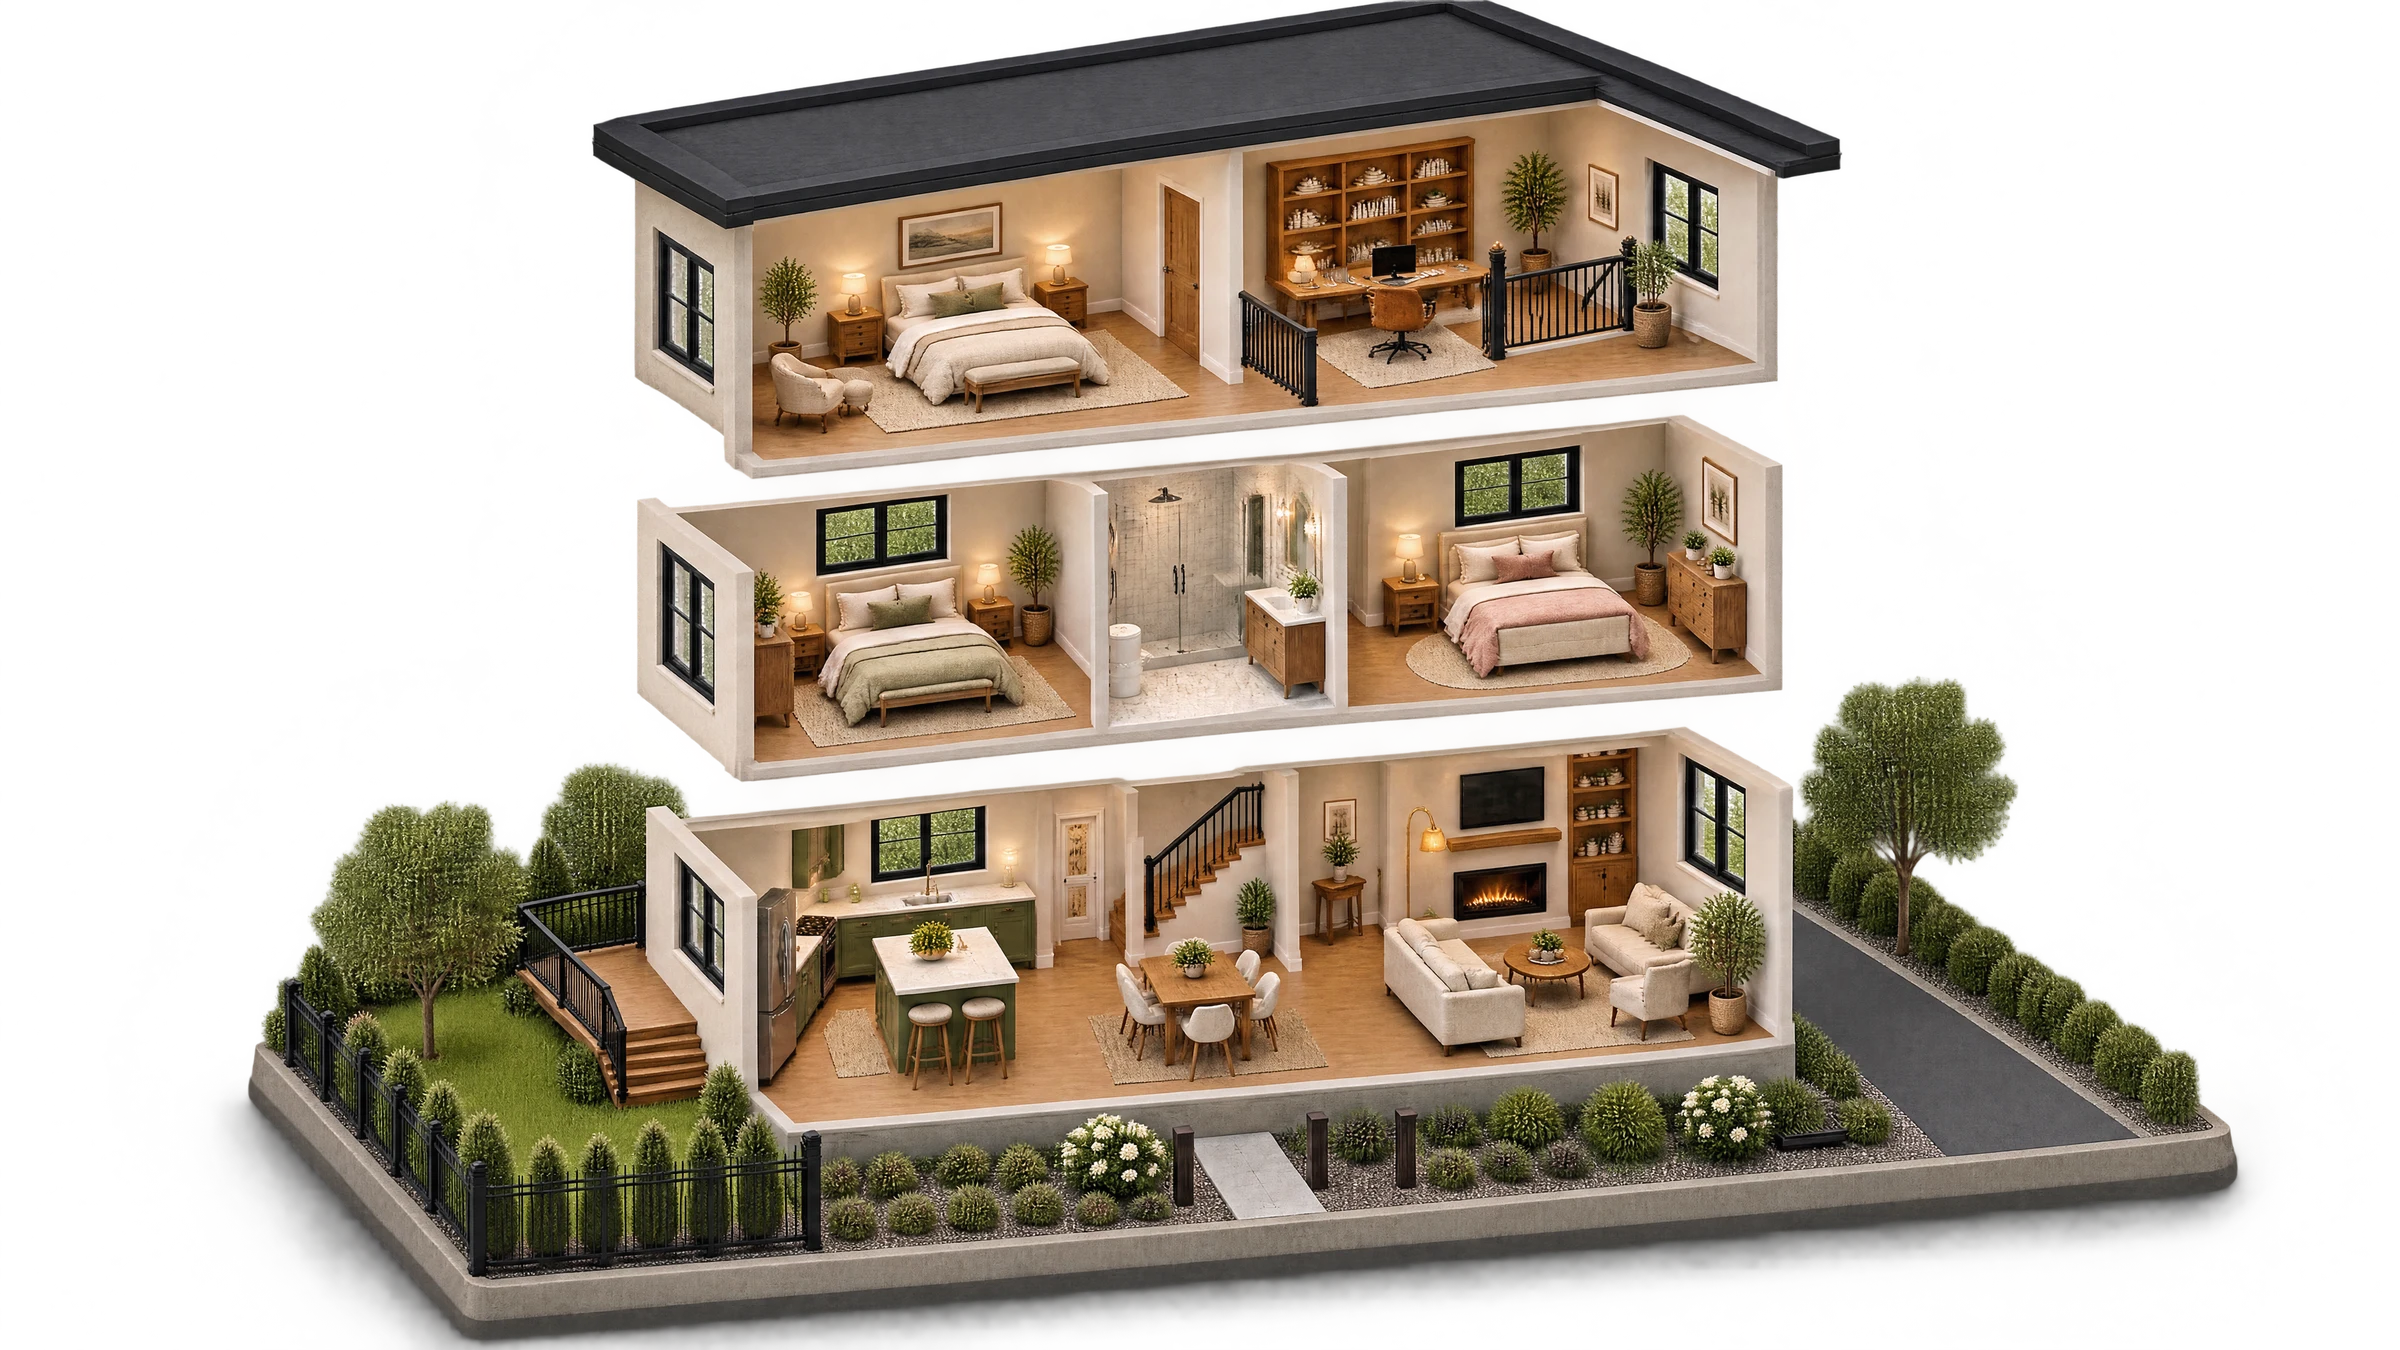
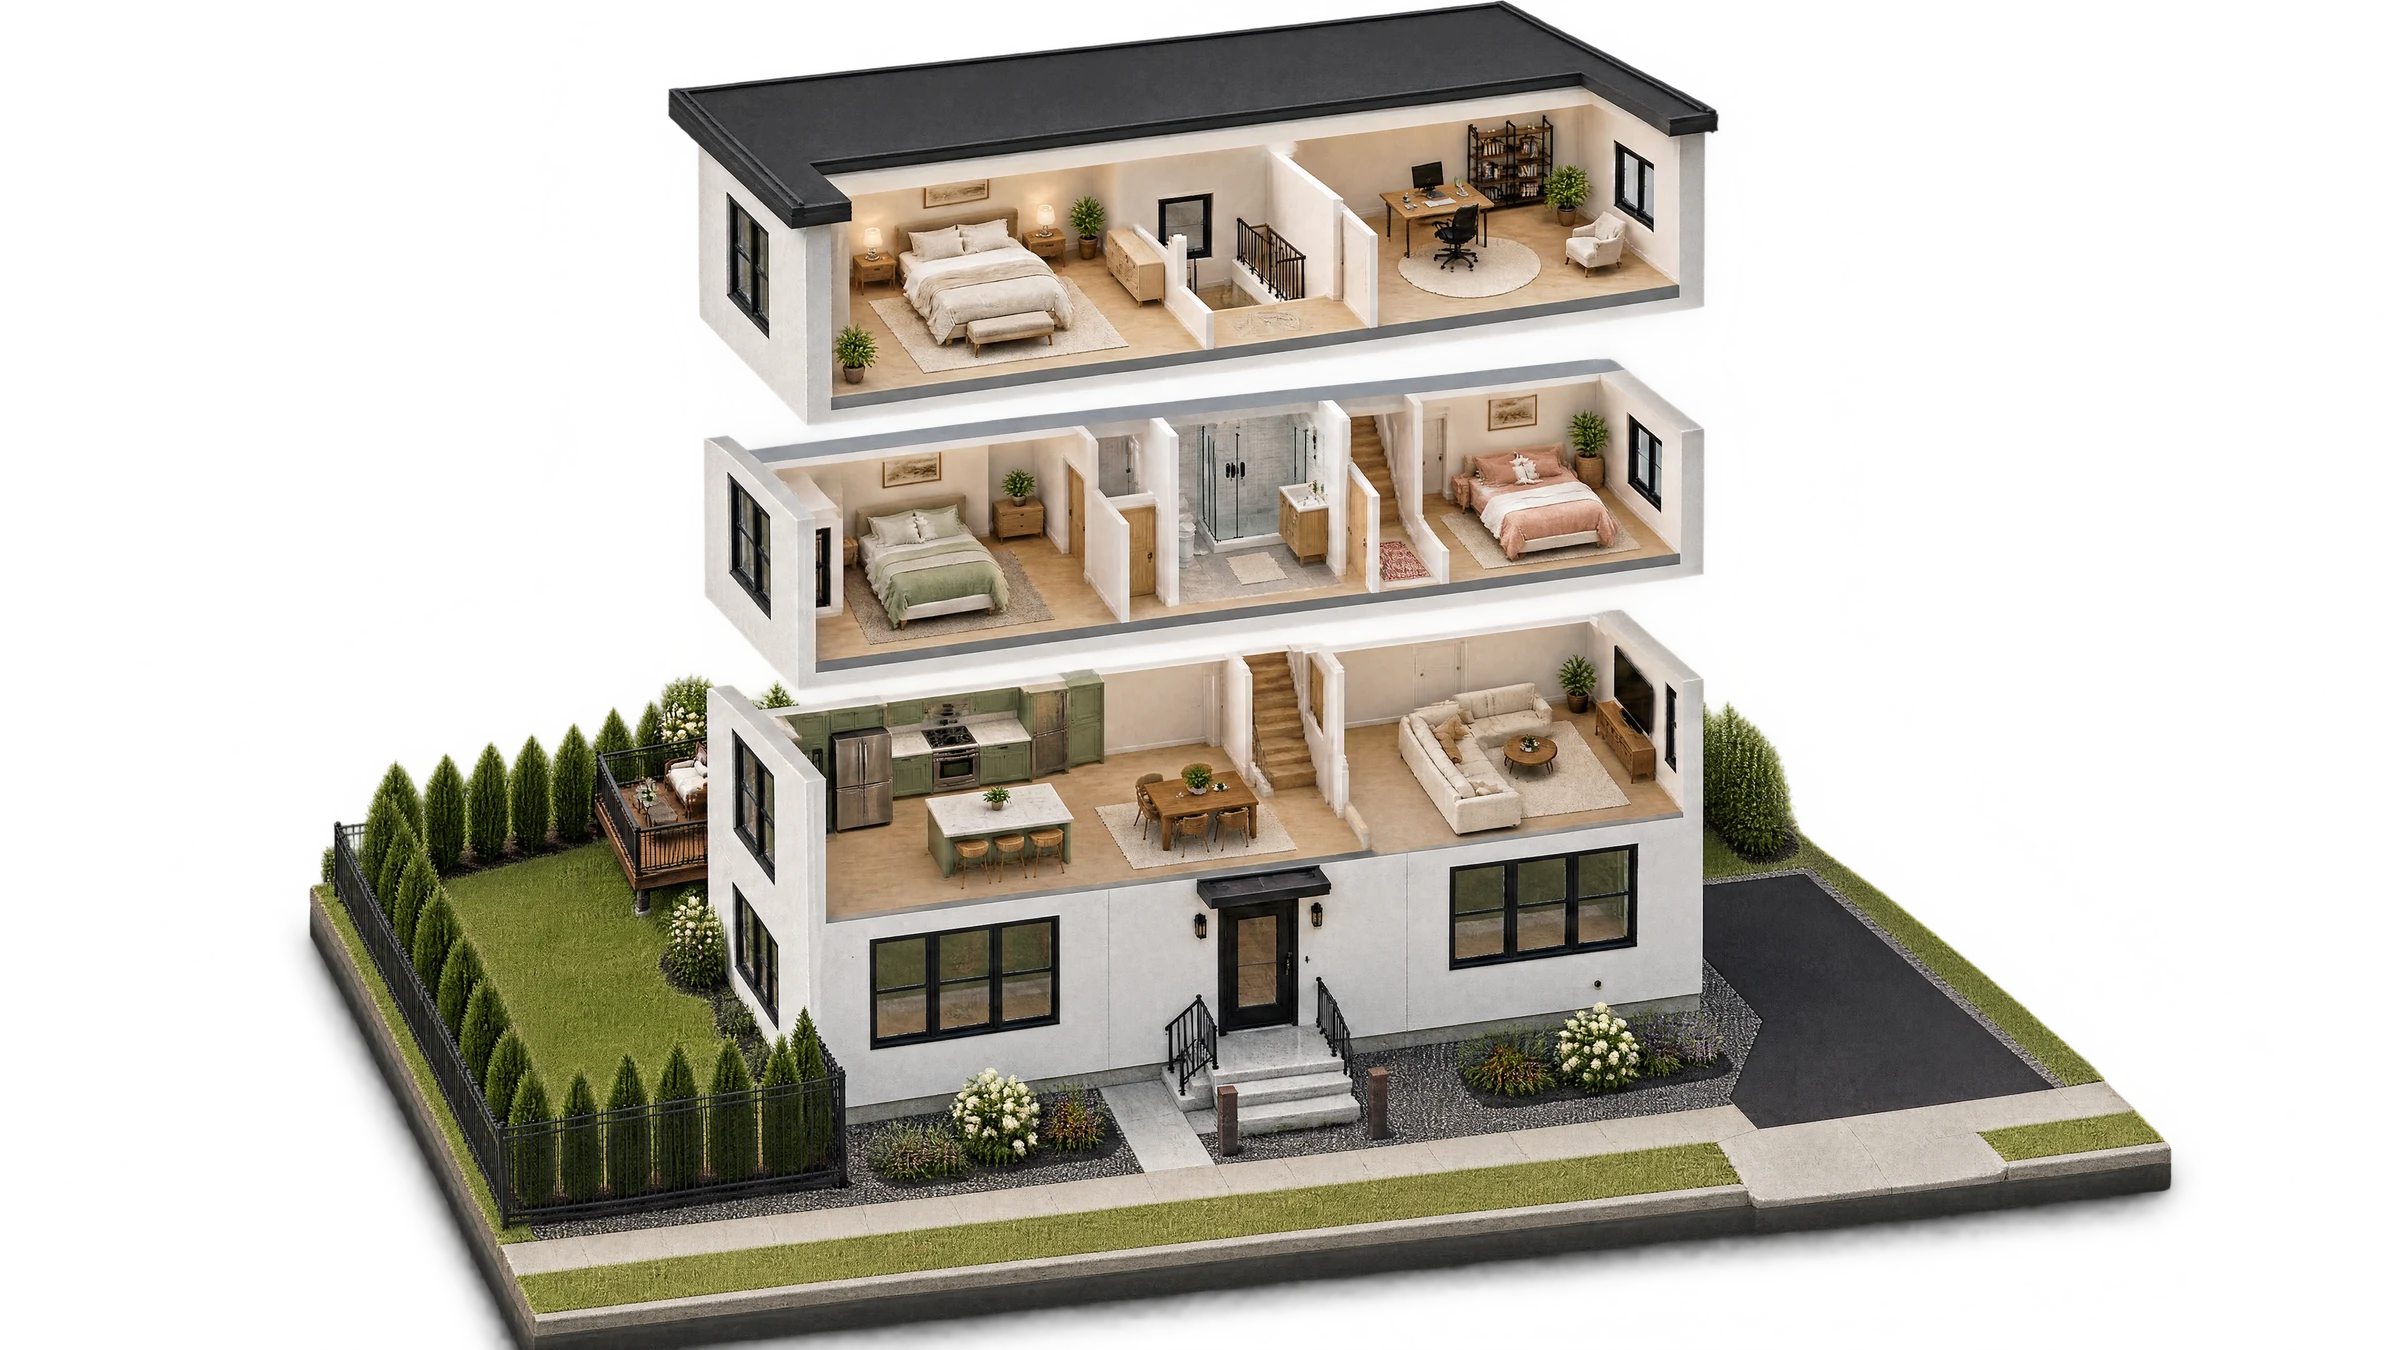
The hero model is the real PSI build again
All three states regenerated anchored to the actual house photo:
white stucco, the true black-framed window pattern, flat black roof
with its thin overhang, the real entry, fence, deck and driveway,
at the reference's aerial angle. Closed, cutaway and exploded now
agree with each other and with the house the site documents. Room
pins repositioned for the new composition.

diff --git a/index.html b/index.html
@@ -33,8 +33,8 @@
       href="https://fonts.googleapis.com/css2?family=Archivo:wght@600;700;800&family=Inter:wght@400;500;600;700&display=swap"
       rel="stylesheet"
     />
-    <link rel="stylesheet" href="css/site.css?v=dis1" />
-    <link rel="stylesheet" href="css/upgrade.css?v=dis1" />
+    <link rel="stylesheet" href="css/site.css?v=dis2" />
+    <link rel="stylesheet" href="css/upgrade.css?v=dis2" />
     <script type="application/ld+json">
       {
         "@context": "https://schema.org",
@@ -202,9 +202,9 @@
             <button
               class="heroo__pin"
               type="button"
-              style="--px: 30%; --py: 79%"
-              data-zx="30"
-              data-zy="79"
+              style="--px: 42%; --py: 63%"
+              data-zx="42"
+              data-zy="63"
               data-cap="Kitchen &amp; Living &middot; cabinets, island, flooring and trim set by the same crew that framed the walls."
             >
               <span class="heroo__pin-dot"></span>Kitchen &amp; Living
@@ -212,9 +212,9 @@
             <button
               class="heroo__pin"
               type="button"
-              style="--px: 68%; --py: 52%"
-              data-zx="68"
-              data-zy="52"
+              style="--px: 60%; --py: 41%"
+              data-zx="60"
+              data-zy="41"
               data-cap="Bedrooms &amp; Baths &middot; tiled baths and finished bedrooms, rough-in inspected before a wall closes."
             >
               <span class="heroo__pin-dot"></span>Bedrooms &amp; Baths
@@ -222,9 +222,9 @@
             <button
               class="heroo__pin"
               type="button"
-              style="--px: 62%; --py: 22%"
-              data-zx="62"
-              data-zy="22"
+              style="--px: 58%; --py: 17%"
+              data-zx="58"
+              data-zy="17"
               data-cap="Loft &amp; Office &middot; the top floor finished to the same standard as the first."
             >
               <span class="heroo__pin-dot"></span>Loft &amp; Office
@@ -232,9 +232,9 @@
             <button
               class="heroo__pin"
               type="button"
-              style="--px: 13%; --py: 68%"
-              data-zx="13"
-              data-zy="68"
+              style="--px: 17%; --py: 62%"
+              data-zx="17"
+              data-zy="62"
               data-cap="Deck &amp; Yard &middot; fence, deck and landscaping, part of the same contract."
             >
               <span class="heroo__pin-dot"></span>Deck &amp; Yard
@@ -1053,11 +1053,11 @@
       integrity="sha256-20nQCchB9co0qIjJZRGuk2/Z9VM+kNiyxNV1lvTlZBo="
       crossorigin=""
     ></script>
-    <script src="js/hero.js?v=dis1" defer></script>
-    <script src="js/main.js?v=dis1" defer></script>
-    <script src="js/process.js?v=dis1" defer></script>
-    <script src="js/transform.js?v=dis1" defer></script>
-    <script src="js/upgrade.js?v=dis1" defer></script>
+    <script src="js/hero.js?v=dis2" defer></script>
+    <script src="js/main.js?v=dis2" defer></script>
+    <script src="js/process.js?v=dis2" defer></script>
+    <script src="js/transform.js?v=dis2" defer></script>
+    <script src="js/upgrade.js?v=dis2" defer></script>
     <script type="application/ld+json">
       {
         "@context": "https://schema.org",
@@ -1130,6 +1130,6 @@
         ]
       }
     </script>
-    <script src="js/support.js?v=dis1" defer></script>
+    <script src="js/support.js?v=dis2" defer></script>
   </body>
 </html>

diff --git a/contact.html b/contact.html
@@ -16,7 +16,7 @@
       href="https://fonts.googleapis.com/css2?family=Archivo:wght@600;700;800&family=Inter:wght@400;500;600;700&display=swap"
       rel="stylesheet"
     />
-    <link rel="stylesheet" href="css/site.css?v=dis1" />
+    <link rel="stylesheet" href="css/site.css?v=dis2" />
   </head>
   <body style="background: var(--paper)">
     <nav class="nav nav--solid" aria-label="Primary">
@@ -147,6 +147,6 @@
 
     <script src="js/quote-data.js?v=a449cf9b"></script>
     <script src="js/quote.js?v=742b7f01" defer></script>
-    <script src="js/support.js?v=dis1" defer></script>
+    <script src="js/support.js?v=dis2" defer></script>
   </body>
 </html>
